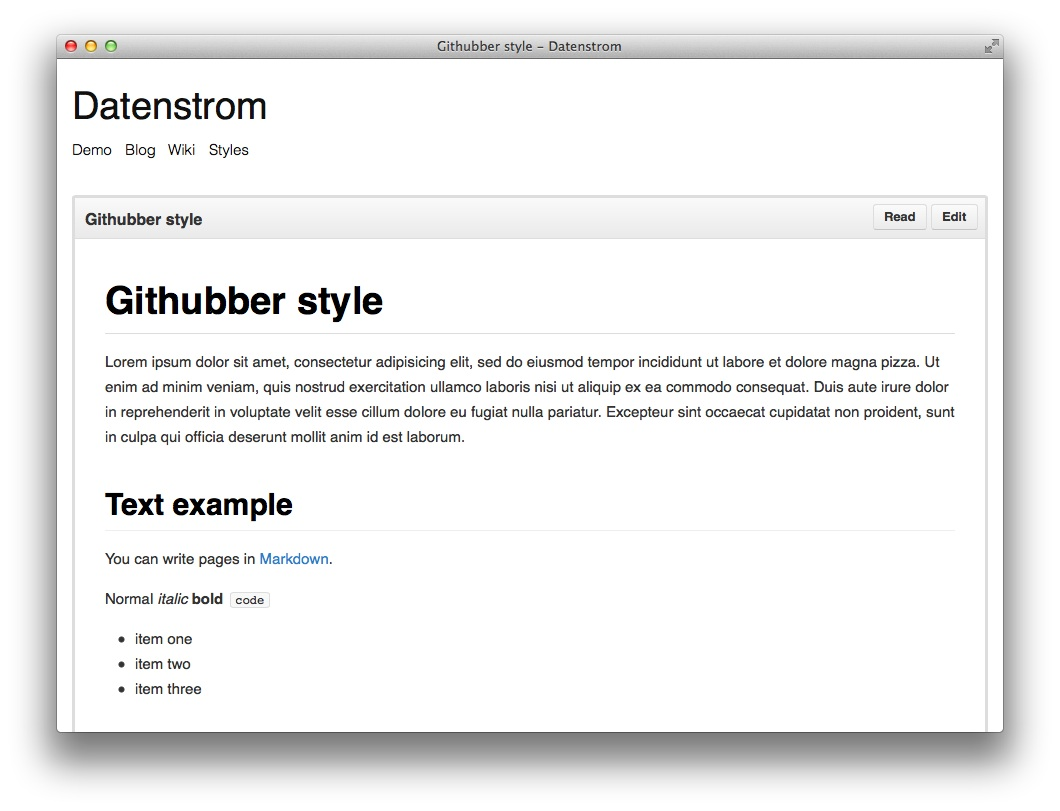
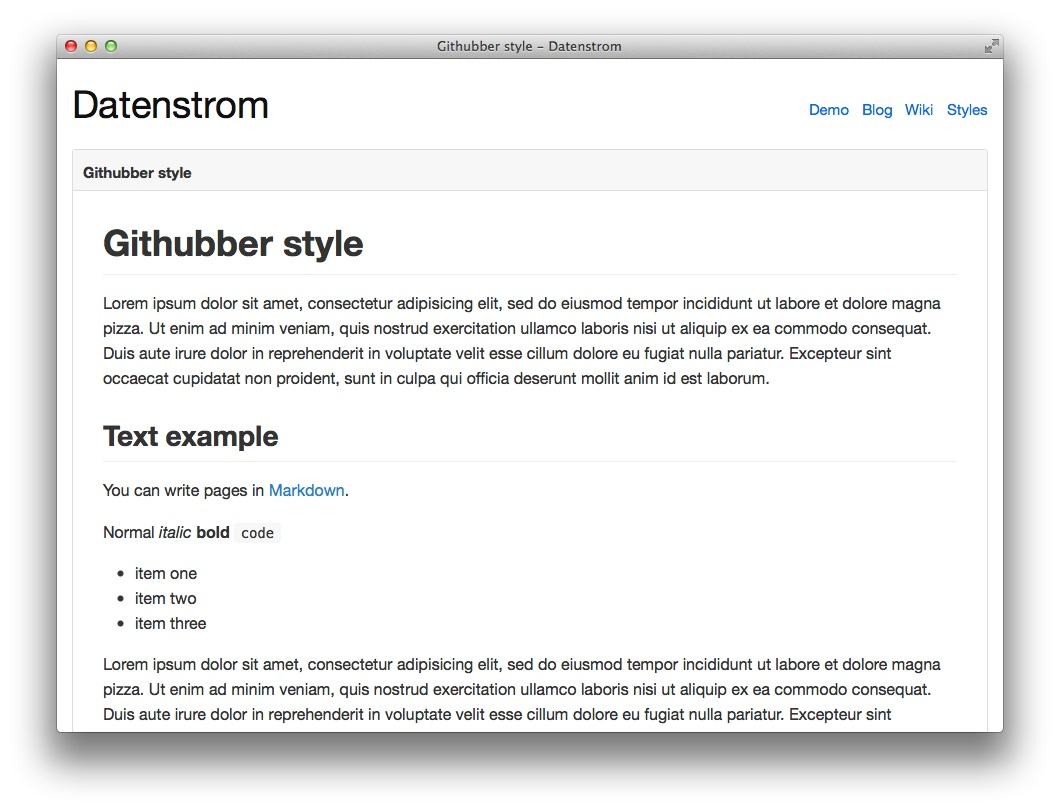
Core update (styles and examples)

Changed region(s): [[0.0623, 0.0925, 0.934, 0.5549], [0.0934, 0.5857, 0.9028, 0.894], [0.7472, 0.1233, 0.934, 0.1541]]

diff --git a/styles/githubber/githubber.css b/styles/githubber/githubber.css
@@ -1,13 +1,13 @@
-/* Yellow githubber style 0.1.7 */
+/* Yellow githubber style 0.1.8 */
 
 html, body, div, form, pre, span, tr, th, td { margin:0; padding:0; border:0; vertical-align:baseline; }
 body { 
 	margin:1em;
-	background-color:#fff; color:#717171;
-	font-family:Helvetica,sans-serif; 
-	font-size:0.95em; 
-	font-weight:200; 
-	line-height:1.5;
+	background-color:#fff; color:#333;
+	font-family:"Helvetica Neue",Helvetica,sans-serif;
+	font-size:0.95em;
+	font-weight:400;
+	line-height:1.6;
 }
 h1, h2, h3, h4, h5, h6 { color:#07d; font-weight:normal; }
 hr { height:1px; background:#ddd; border:0; }
@@ -15,47 +15,45 @@ code { font-size:1.1em; }
 a { color:#07d; }
 a:hover { color:#07d; text-decoration:underline; }
 a, img { border:none; text-decoration:none; }
-.header h1 { margin-top:0.5em; margin-bottom:0em; font-size:2.5em; }
-.header a { color:#111; text-decoration:none; }
-.navigation { line-height:2em; }
-.navigation a { color:#111; padding:0 0.3em; display:inline-block; }
+.page { position:relative; }
+.sitename h1 { margin-top:0em; margin-bottom:0em; font-size:2.5em; }
+.sitename a { color:#111; text-decoration:none; }
+.navigation { position:absolute; top:1.4em; right:0em; }
+.navigation { margin-bottom:1em; line-height:2em; }
+.navigation a { color:#07d; padding:0 0.3em; display:inline-block; }
 .navigation a:hover { color:#07d; }
-.navigation li a.active { color:#111; }
+.navigation ul { margin:0 -0.3em; padding:0; list-style:none; }
+.navigation li a.active { color:#07d; }
 .navigation li a.active:hover { color:#07d; }
 .navigation li { display:inline; }
-.navigation ul { margin:0 -0.3em; padding:0; list-style:none; }
 .pagination { margin:1em 0; }
 .content img { max-width:100%; height:auto; }
 .content form { margin:1em 0; }
 .content .flexible { position:relative; padding-bottom:56.25%; padding-top:30px; }
 .content .flexible iframe { position:absolute; top:0; left:0; width:100%; height:100%; }
-.footer a { color:#717171; }
+.footer a { color:#333; }
 .footer a:hover { color:#07d; text-decoration:underline; }
 .left { float:left; margin:0 1em 0 0; }
 .center { display:block; margin:0 auto; }
 .right { float:right; margin:0 0 0 1em; }
 
-/* Reengineered from Github */
+/* Reengineered from GitHub */
 
-.file { margin:2em 0; padding:30px; }
-.file { border:3px solid #ddd; border-radius:3px; }
+.file { margin:1em 0; padding:30px; }
+.file { border:1px solid #ddd; border-radius:3px; }
 .meta {
 	margin:-30px -30px 30px -30px; height:40px;
-	background-color:#eaeaea; color:#333;
-	background-image:linear-gradient(to bottom, #fafafa, #eaeaea);
-	background-repeat:repeat-x; 
+	background-color:#f7f7f7; color:#333;
 	border-bottom:1px solid #ddd;
 }
-.meta-title { float:left; padding:10px 10px; font-size:16px; font-weight:bold; }
-.meta-data { float:left; padding:11px 10px; font-size:15px; }
+.meta-title { float:left; padding:10px 10px; font-weight:bold; }
+.meta-data { float:left; padding:11px 10px; }
 .meta-actions { float:right; padding:6px; }
-.content { font-weight:normal; color:#333; }
-.content code { font-size:0.8em; }
-.content h1, h2, h3, h4, h5, h6 { color:#000; }
+.content tt, code, pre { font-family:Consolas,"Liberation Mono",Menlo,Courier,monospace; font-size:0.9em; }
+.content h1, h2, h3, h4, h5, h6 { color:#333; }
 .content a { color:#4183c4; }
 .content a:hover { color:#4183c4; text-decoration:underline; }
-.content { font-size:15px;line-height:1.7;overflow:hidden;word-wrap:break-word}.content>*:first-child{margin-top:0 !important}.content>*:last-child{margin-bottom:0 !important}.content a.absent{color:#c00}.content a.anchor{display:block;padding-right:6px;padding-left:30px;margin-left:-30px;cursor:pointer;position:absolute;top:0;left:0;bottom:0}.content a.anchor:focus{outline:none}.content h1,.content h2,.content h3,.content h4,.content h5,.content h6{margin:1em 0 15px;padding:0;font-weight:bold;line-height:1.7;cursor:text;position:relative}.content h1 .octicon-link,.content h2 .octicon-link,.content h3 .octicon-link,.content h4 .octicon-link,.content h5 .octicon-link,.content h6 .octicon-link{display:none;color:#000}.content h1:hover a.anchor,.content h2:hover a.anchor,.content h3:hover a.anchor,.content h4:hover a.anchor,.content h5:hover a.anchor,.content h6:hover a.anchor{text-decoration:none;line-height:1;padding-left:0;margin-left:-22px;top:15%}.content h1:hover a.anchor .octicon-link,.content h2:hover a.anchor .octicon-link,.content h3:hover a.anchor .octicon-link,.content h4:hover a.anchor .octicon-link,.content h5:hover a.anchor .octicon-link,.content h6:hover a.anchor .octicon-link{display:inline-block}.content h1 tt,.content h1 code,.content h2 tt,.content h2 code,.content h3 tt,.content h3 code,.content h4 tt,.content h4 code,.content h5 tt,.content h5 code,.content h6 tt,.content h6 code{font-size:inherit}.content h1{font-size:2.5em;border-bottom:1px solid #ddd}.content h2{font-size:2em;border-bottom:1px solid #eee}.content h3{font-size:1.5em}.content h4{font-size:1.2em}.content h5{font-size:1em}.content h6{color:#777;font-size:1em}.content p,.content blockquote,.content ul,.content ol,.content dl,.content table,.content pre{margin:15px 0}.content hr{color:#ccc;height:3px;padding:0;margin:15px 0}.content ul,.content ol{padding-left:30px}.content ul.no-list,.content ol.no-list{list-style-type:none;padding:0}.content ul ul,.content ul ol,.content ol ol,.content ol ul{margin-top:0;margin-bottom:0}.content dl{padding:0}.content dl dt{font-size:14px;font-weight:bold;font-style:italic;padding:0;margin-top:15px}.content dl dd{margin-bottom:15px;padding:0 15px}.content blockquote{border-left:4px solid #DDD;padding:0 15px;color:#777}.content blockquote>:first-child{margin-top:0px}.content blockquote>:last-child{margin-bottom:0px}.content table{width:100%;overflow:auto;display:block}.content table th{font-weight:bold}.content table th,.content table td{border:1px solid #ddd;padding:6px 13px}.content table tr{border-top:1px solid #ccc;background-color:#fff}.content table tr:nth-child(2n){background-color:#f8f8f8}.content img{max-width:100%;-moz-box-sizing:border-box;box-sizing:border-box}.content span.frame{display:block;overflow:hidden}.content span.frame>span{border:1px solid #ddd;display:block;float:left;overflow:hidden;margin:13px 0 0;padding:7px;width:auto}.content span.frame span img{display:block;float:left}.content span.frame span span{clear:both;color:#333;display:block;padding:5px 0 0}.content span.align-center{display:block;overflow:hidden;clear:both}.content span.align-center>span{display:block;overflow:hidden;margin:13px auto 0;text-align:center}.content span.align-center span img{margin:0 auto;text-align:center}.content span.align-right{display:block;overflow:hidden;clear:both}.content span.align-right>span{display:block;overflow:hidden;margin:13px 0 0;text-align:right}.content span.align-right span img{margin:0;text-align:right}.content span.float-left{display:block;margin-right:13px;overflow:hidden;float:left}.content span.float-left span{margin:13px 0 0}.content span.float-right{display:block;margin-left:13px;overflow:hidden;float:right}.content span.float-right>span{display:block;overflow:hidden;margin:13px auto 0;text-align:right}.content code,.content tt{margin:0 2px;padding:0px 5px;border:1px solid #ddd;background-color:#f8f8f8;border-radius:3px}.content code{white-space:nowrap}.content pre>code{margin:0;padding:0;white-space:pre;border:none;background:transparent}.content .highlight pre,.content pre{background-color:#f8f8f8;border:1px solid #ddd;font-size:13px;line-height:19px;overflow:auto;padding:6px 10px;border-radius:3px}.content pre code,.content pre tt{margin:0;padding:0;background-color:transparent;border:none;word-wrap:normal} .minibutton, .minibutton:hover { padding:0 10px;line-height:24px;font-size:13px;font-weight:bold;text-decoration:none;display:inline-block;background-color:#eaeaea; color:#333;background-image:linear-gradient(to bottom, #fafafa, #eaeaea);background-repeat:repeat-x;border:1px solid #ddd;border-bottom-color:#c5c5c5;border-radius:3px; }.minibutton:hover { background-image:none; }.minibutton:active { box-shadow:inset 0 2px 4px rgba(0, 0, 0, 0.1); }
-.content pre { font-size:inherit; }
+.content { font-size:16px;line-height:1.6;word-wrap:break-word}.content>*:first-child{margin-top:0 !important}.content>*:last-child{margin-bottom:0 !important}.content .absent{color:#c00}.content .anchor{position:absolute;top:0;bottom:0;left:0;display:block;padding-right:6px;padding-left:30px;margin-left:-30px}.content .anchor:focus{outline:none}.content h1,.content h2,.content h3,.content h4,.content h5,.content h6{position:relative;margin-top:1em;font-weight:bold;line-height:1.4}.content h1 .octicon-link,.content h2 .octicon-link,.content h3 .octicon-link,.content h4 .octicon-link,.content h5 .octicon-link,.content h6 .octicon-link{display:none;color:#000;vertical-align:middle}.content h1:hover .anchor,.content h2:hover .anchor,.content h3:hover .anchor,.content h4:hover .anchor,.content h5:hover .anchor,.content h6:hover .anchor{height:1em;padding-left:8px;margin-left:-30px;line-height:1;text-decoration:none}.content h1:hover .anchor .octicon-link,.content h2:hover .anchor .octicon-link,.content h3:hover .anchor .octicon-link,.content h4:hover .anchor .octicon-link,.content h5:hover .anchor .octicon-link,.content h6:hover .anchor .octicon-link{display:inline-block}.content h1 tt,.content h1 code,.content h2 tt,.content h2 code,.content h3 tt,.content h3 code,.content h4 tt,.content h4 code,.content h5 tt,.content h5 code,.content h6 tt,.content h6 code{font-size:inherit}.content h1{padding-bottom:0.3em;margin-bottom:16px;font-size:2.25em;line-height:1.2;border-bottom:1px solid #eee}.content h2{padding-bottom:0.3em;margin-bottom:16px;font-size:1.75em;line-height:1.225;border-bottom:1px solid #eee}.content h3{margin-bottom:0;font-size:1.5em;line-height:1.43}.content h4{margin-bottom:0.1em;font-size:1.25em}.content h5{margin-bottom:0.2em;font-size:1em}.content h6{margin-bottom:0.2em;font-size:1em;color:#777}.content p,.content blockquote,.content ul,.content ol,.content dl,.content table,.content pre{margin-top:0;margin-bottom:16px}.content hr{height:4px;padding:0;margin:16px 0;background-color:#e7e7e7;border:0 none}.content ul,.content ol{padding-left:2em}.content ul.no-list,.content ol.no-list{padding:0;list-style-type:none}.content ul ul,.content ul ol,.content ol ol,.content ol ul{margin-top:0;margin-bottom:0}.content dl{padding:0}.content dl dt{padding:0;margin-top:16px;font-size:1em;font-style:italic;font-weight:bold}.content dl dd{padding:0 16px;margin-bottom:16px}.content blockquote{padding:0 15px;color:#777;border-left:4px solid #ddd}.content blockquote>:first-child{margin-top:0}.content blockquote>:last-child{margin-bottom:0}.content table{display:block;width:100%;overflow:auto}.content table th{font-weight:bold}.content table th,.content table td{padding:6px 13px;border:1px solid #ddd}.content table tr{background-color:#fff;border-top:1px solid #ccc}.content table tr:nth-child(2n){background-color:#f8f8f8}.content img{max-width:100%;-moz-box-sizing:border-box;box-sizing:border-box}.content span.frame{display:block;overflow:hidden}.content span.frame>span{display:block;float:left;width:auto;padding:7px;margin:13px 0 0;overflow:hidden;border:1px solid #ddd}.content span.frame span img{display:block;float:left}.content span.frame span span{display:block;padding:5px 0 0;clear:both;color:#333}.content span.align-center{display:block;overflow:hidden;clear:both}.content span.align-center>span{display:block;margin:13px auto 0;overflow:hidden;text-align:center}.content span.align-center span img{margin:0 auto;text-align:center}.content span.align-right{display:block;overflow:hidden;clear:both}.content span.align-right>span{display:block;margin:13px 0 0;overflow:hidden;text-align:right}.content span.align-right span img{margin:0;text-align:right}.content span.float-left{display:block;float:left;margin-right:13px;overflow:hidden}.content span.float-left span{margin:13px 0 0}.content span.float-right{display:block;float:right;margin-left:13px;overflow:hidden}.content span.float-right>span{display:block;margin:13px auto 0;overflow:hidden;text-align:right}.content code,.content tt{padding:0;padding-top:0.2em;padding-bottom:0.2em;margin:0;font-size:85%;background-color:#f7f7f7;border-radius:3px}.content code:before,.content code:after,.content tt:before,.content tt:after{letter-spacing:-0.2em;content:"\00a0"}.content code br,.content tt br{display:none}.content del code{text-decoration:inherit;vertical-align:text-top}.content pre>code{padding:0;margin:0;font-size:100%;white-space:pre;background:transparent;border:0}.content .highlight pre,.content pre{padding:16px;overflow:auto;font-size:85%;line-height:1.45;background-color:#f7f7f7;border-radius:3px}.content pre{word-wrap:normal}.content pre code,.content pre tt{display:inline;max-width:initial;padding:0;margin:0;overflow:initial;line-height:inherit;word-wrap:normal;background-color:transparent;border:0}.content pre code:before,.content pre code:after,.content pre tt:before,.content pre tt:after{content:normal}
 
 /* Responsive and print */
 
@@ -67,13 +65,14 @@ a, img { border:none; text-decoration:none; }
 @media screen and (max-width:30em) { 
 	body { margin:0.5em; font-size:0.9em; }
 	.content h1, .content h2, .content h3 { font-size:1.3em; }
-	.header h1, h1, h2 { font-size:1.3em; }
-	.header h1, .header, .navigation, .footer, .page { margin:0; padding:0; }
+	.sitename h1, h1, h2 { font-size:1.3em; }
+	.sitename h1, .sitename, .navigation, .footer, .page { margin:0; padding:0; border:0; }
+	.sitename, .navigation { position:static; height:auto; }
 	.file, .footer { margin:0; padding:0.5em 0; border:0; }
 	.meta { display:none; }
 }
 @media print {
 	body, h1, h2, h3, h4, h5, h6 { background-color:white; color:black; }
 	.page { border:none !important; }
-	.navigation, .footer { display:none !important; }
+	.navigation, .meta, .footer { display:none !important; }
 }

diff --git a/styles/knowbase/knowbase.css b/styles/knowbase/knowbase.css
@@ -1,0 +1,66 @@
+/* Yellow knowbase style 0.1.1 */
+
+html, body, div, form, pre, span, tr, th, td { margin:0; padding:0; border:0; vertical-align:baseline; }
+body { 
+	margin:1em;
+	background-color:#f1f1f1; color:#373737;
+	font-family:Helvetica,sans-serif; 
+	font-size:0.95em; 
+	font-weight:200;
+	line-height:1.5;
+}
+h1, h2, h3, h4, h5, h6 { color:#111; font-weight:normal; }
+hr { height:1px; background:#ddd; border:0; }
+code { font-size:1.1em; }
+a { color:#07d; }
+a:hover { color:#07d; text-decoration:underline; }
+a, img { border:none; text-decoration:none; }
+.sitename h1 { margin:0; font-size:2.0em; }
+.sitename a { color:#111; text-decoration:none; }
+.navigation { margin-top:0.8em; line-height:1.7em; }
+.navigation a { color:#111; font-weight:bold; display:inline-block; }
+.navigation a:hover { color:#07d; }
+.navigation ul { margin:0; padding:0; list-style:none; }
+.navigation li { display:block; }
+.navigation li li { padding:0em 1em; }
+.navigation li li a { color:#777; font-weight:inherit; }
+.main { display:table; }
+.column1, .column2 { display:table-cell; padding:2em; background-color:#fff; border:1px solid #ddd; }
+.column1 { min-width:10em; border-right:none; white-space:nowrap; }
+.column2 { width:100%; }
+.pagination { margin:1em 0; }
+.content h1:first-child { margin:0em; }
+.content img { max-width:100%; height:auto; }
+.content form { margin:1em 0; }
+.content .flexible { position:relative; padding-bottom:56.25%; padding-top:30px; }
+.content .flexible iframe { position:absolute; top:0; left:0; width:100%; height:100%; }
+.footer { margin-top:1em; }
+.footer a { color:#373737; }
+.footer a:hover { color:#07d; text-decoration:underline; }
+.left { float:left; margin:0 1em 0 0; }
+.center { display:block; margin:0 auto; }
+.right { float:right; margin:0 0 0 1em; }
+
+/* Responsive and print */
+
+.page { margin:0 auto; max-width:62em; }
+
+@media screen and (min-width:62em) {
+	body { width:62em; margin:1em auto; }
+}
+@media screen and (max-width:30em) { 
+	body { margin:0.5em; background-color:#fff; font-size:0.9em; }
+	.sitename h1, h1, h2 { font-size:1.3em; }
+	.sitename h1, .sitename, .navigation, .footer, .page { margin:0; padding:0; border:0; }
+	.navigation { margin:0em; line-height:2em; }
+	.navigation a { padding:0 0.3em; display:inline-block; font-weight:inherit; }
+	.navigation ul { margin:0 -0.3em; padding:0; list-style:none; }
+	.navigation li { display:inline; }
+	.navigation li ul { display:none; }
+	.main, .column1, .column2 { display:block; border:none; padding:0; }
+}
+@media print {
+	body, h1, h2, h3, h4, h5, h6 { background-color:white; color:black; }
+	.page { border:none !important; }
+	.navigation, .footer { display:none !important; }
+}

diff --git a/styles/blogsite/blogsite.css b/styles/blogsite/blogsite.css
@@ -1,4 +1,4 @@
-/* Yellow blogsite style 0.1.6 */
+/* Yellow blogsite style 0.1.7 */
 
 html, body, div, form, pre, span, tr, th, td { margin:0; padding:0; border:0; vertical-align:baseline; }
 body {
@@ -17,10 +17,10 @@ a:hover { color:#07d; text-decoration:underline; }
 a, img { border:none; text-decoration:none; }
 .yellow { margin:0 0.5em; }
 .yellow a:hover { color:#373737; text-decoration:none; }
-.header { padding:0.5em 1.5em; }
-.header h1 { margin:0.4em 0; font-size:2.2em; } 
-.header a { color:#111; text-decoration:none; }
-.header-banner { 
+.sitename { padding:0.5em 1.5em; }
+.sitename h1 { margin:0.4em 0; font-size:2.2em; }
+.sitename a { color:#111; text-decoration:none; }
+.sitename-banner {
 	padding-top:23%; 
 	background-image:url(blogsite.jpg); 
 	background-repeat:no-repeat; 
@@ -30,10 +30,10 @@ a, img { border:none; text-decoration:none; }
 .navigation { padding:0 0.5em; background-color:#000; line-height:2.5em; }
 .navigation a { color:#bbb; padding:0 1em; display:inline-block; }
 .navigation a:hover { color:#111; background-color:#eee; text-decoration:none; }
+.navigation ul { margin:0; padding:0; list-style:none; font-size:0.9em; }
 .navigation li a.active { color:#fff; }
 .navigation li a.active:hover { color:#111; text-decoration:none; }
 .navigation li { display:inline; }
-.navigation ul { margin:0; padding:0; list-style:none; font-size:0.9em; }
 .pagination { margin:1em 0; }
 .content { padding:0 1.5em; }
 .content h1 a:hover { text-decoration:none; }
@@ -53,18 +53,19 @@ a, img { border:none; text-decoration:none; }
 .page { margin:0 auto; max-width:1000px; }
 
 @media screen and (min-width:62em) {
-	body { background-color:#e1e1e1; width:62em; margin:1em auto; }
-	.page { background-color:#fff; margin:0; max-width:62em; border:1px solid #bbb; }
+	body { background-color:#f1f1f1; width:1000px; margin:1em auto; }
+	.page { background-color:#fff; margin:0; border:1px solid #bbb; }
 	.page { border-radius:4px; box-shadow:0 0 10px rgba(0, 0, 0, 0.2); }
 }
 @media screen and (max-width:30em) {
 	body { font-size:0.9em; }
-	.header h1, h1, h2 { font-size:1.2em; }
-	.header h1, .header, .navigation, .footer, .page { margin:0; padding:0; }
-	.header, .content, .footer { padding:0.5em; }
+	.sitename h1, h1, h2 { font-size:1.2em; }
+	.sitename h1, .sitename, .navigation, .footer, .page { margin:0; padding:0; border:0; }
+	.sitename, .content, .footer { padding:0.5em; }
+	.footer { padding-top:0; }
 }
 @media print {
 	body, h1, h2, h3, h4, h5, h6 { background-color:white; color:black; }
 	.page { border:none !important; }
-	.navigation, .footer { display:none !important; }
+	.sitename-banner, .navigation, .footer { display:none !important; }
 }

diff --git a/styles/githubber/githubber.php b/styles/githubber/githubber.php
@@ -1,4 +1,5 @@
 <?php $yellow->snippet("header") ?>
+<?php $yellow->snippet("sitename") ?>
 <?php $yellow->snippet("navigation") ?>
 <div class="file">
 <div class="meta">
@@ -8,7 +9,7 @@
 <?php $tagCounter = 0; foreach(preg_split("/,\s*/", $yellow->page->get("tag")) as $tag) { if(++$tagCounter>1) echo ", "; echo "<a href=\"".$yellow->page->getParentTop(true)->getLocation().$yellow->toolbox->normaliseArgs("tag:$tag")."\">".htmlspecialchars($tag)."</a>"; } ?>
 <?php endif ?>
 </div>
-<div class="meta-actions"><a class="minibutton" href="<?php echo $yellow->page->get("pageRead") ?>">Read</a> <a class="minibutton" href="<?php echo $yellow->page->get("pageEdit") ?>">Edit</a></div>
+<div class="meta-actions"></div>
 </div>
 <div class="content"><?php echo $yellow->page->getContent() ?></div>
 </div>

diff --git a/styles/knowbase/knowbase.php b/styles/knowbase/knowbase.php
@@ -1,0 +1,13 @@
+<?php $yellow->snippet("header") ?>
+<div class="main">
+<div class="column1">
+<?php $yellow->snippet("sitename") ?>
+<?php $yellow->snippet("navigationtree") ?>
+</div>
+<div class="column2">
+<?php $yellow->snippet("content") ?>
+</div>
+</div>
+<?php $yellow->snippet("footer") ?>
+<?php $pages = $yellow->pages->index(false)->append($yellow->page) ?>
+<?php $yellow->page->header("Last-Modified: ".$pages->getModified(true)) ?>

diff --git a/templates/search/search.php b/templates/search/search.php
@@ -1,6 +1,7 @@
 <?php if(PHP_SAPI=="cli" && !isset($_REQUEST["query"])) $yellow->page->error(500, "Static website not supported!") ?>
 <?php $pages = getSearchPages($yellow, 5, $_REQUEST["query"]) ?>
 <?php $yellow->snippet("header") ?>
+<?php $yellow->snippet("sitename") ?>
 <?php $yellow->snippet("navigation") ?>
 <div class="content search">
 <h1><?php echo $yellow->page->getHtml("title") ?></h1>

diff --git a/templates/contact/contact.php b/templates/contact/contact.php
@@ -1,6 +1,7 @@
 <?php if(PHP_SAPI == "cli") $yellow->page->error(500, "Static website not supported!") ?>
 <?php $status = getContactStatus($yellow, "href=|url=", $_REQUEST["status"]) ?>
 <?php $yellow->snippet("header") ?>
+<?php $yellow->snippet("sitename") ?>
 <?php $yellow->snippet("navigation") ?>
 <div class="content contact">
 <h1><?php echo $yellow->page->getHtml("title") ?></h1>

diff --git a/templates/sitemap/sitemap.php b/templates/sitemap/sitemap.php
@@ -2,6 +2,7 @@
 <?php $pages = $pages->sort("title", false)->pagination(30) ?>
 <?php if($pages->getPaginationPage() > $pages->getPaginationCount()) $yellow->page->error(404) ?>
 <?php $yellow->snippet("header") ?>
+<?php $yellow->snippet("sitename") ?>
 <?php $yellow->snippet("navigation") ?>
 <div class="content sitemap">
 <h1><?php echo $yellow->page->getHtml("title") ?></h1>

diff --git a/templates/feed/feed.php b/templates/feed/feed.php
@@ -2,6 +2,7 @@
 <?php $pages = $pages->sort("modified")->pagination(30) ?>
 <?php if($pages->getPaginationPage() > $pages->getPaginationCount()) $yellow->page->error(404) ?>
 <?php $yellow->snippet("header") ?>
+<?php $yellow->snippet("sitename") ?>
 <?php $yellow->snippet("navigation") ?>
 <div class="content feed">
 <h1><?php echo $yellow->page->getHtml("title") ?></h1>

diff --git a/templates/blog/blogarticles.php b/templates/blog/blogarticles.php
@@ -12,6 +12,7 @@
 <?php $yellow->page->set("titleBlog", $yellow->text->get("blogFilter")." ".$title) ?>
 <?php endif ?>
 <?php $yellow->snippet("header") ?>
+<?php $yellow->snippet("sitename") ?>
 <?php $yellow->snippet("navigation") ?>
 <div class="content blogarticles">
 <?php if($yellow->page->isExisting("titleBlog")): ?>

diff --git a/snippets/navigationtree/navigationtree.php b/snippets/navigationtree/navigationtree.php
@@ -1,7 +1,7 @@
 <?php list($name, $pages, $level) = $yellow->getSnippetArgs() ?>
 <?php if(!$pages) $pages = $yellow->pages->top() ?>
 <?php if(!$level): ?>
-<div class="navigationtree">
+<div class="navigation">
 <?php endif ?>
 <ul>
 <?php foreach($pages as $page): ?>

diff --git a/templates/wiki/wikipages.php b/templates/wiki/wikipages.php
@@ -15,6 +15,7 @@
 <?php endif ?>
 <?php endif ?>
 <?php $yellow->snippet("header") ?>
+<?php $yellow->snippet("sitename") ?>
 <?php $yellow->snippet("navigation") ?>
 <?php if(!empty($pagesFilter)): ?>
 <div class="content wikipages">
